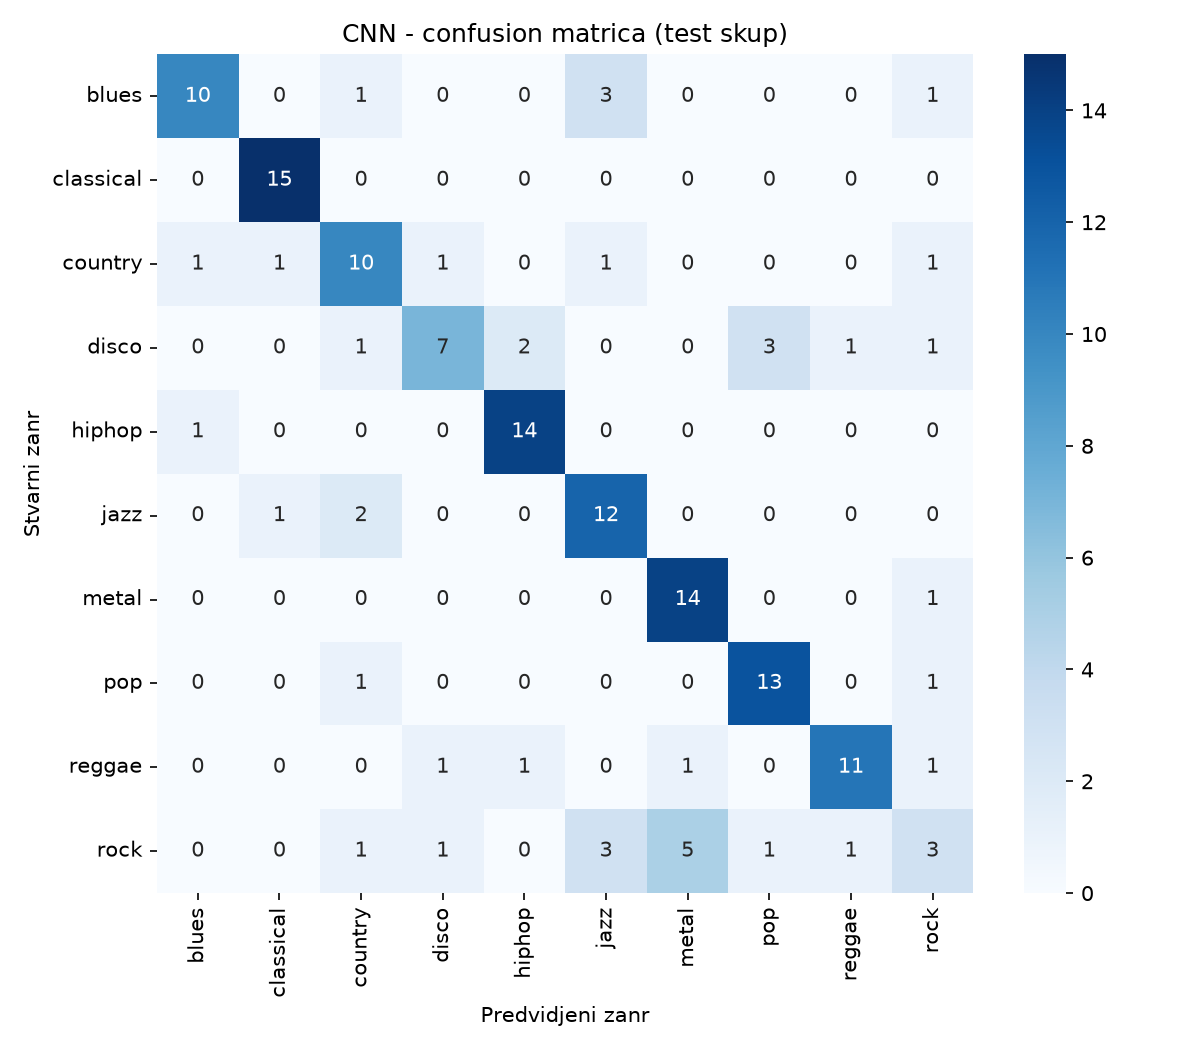
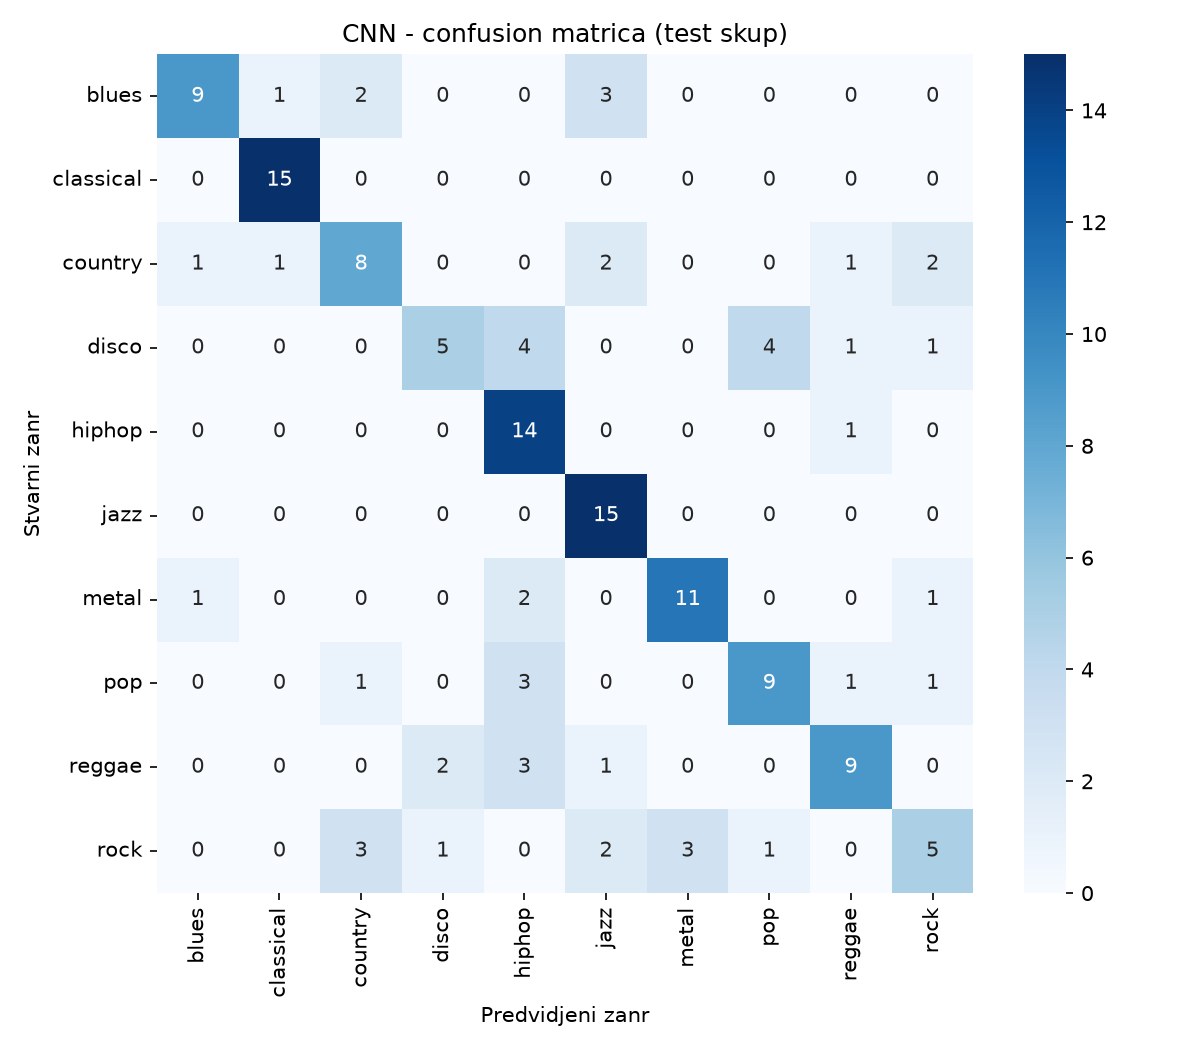
Add spectrogram caching (major speedup) and SpecAugment; diagnose blues-class collapse

diff --git a/src/datasets.py b/src/datasets.py
@@ -1,40 +1,80 @@
 """PyTorch Dataset koji cita manifest CSV, secka svaku pesmu na kratke
-isecke i vraca mel-spektrogram + labelu zanra."""
+isecke i vraca mel-spektrogram + labelu zanra.
+
+Kesiranje: mel-spektrogram CELE pesme se racuna samo jednom po fajlu (prvi put
+kad se zatrazi) i cuva u memoriji (self._spec_cache). Svaki naredni zahtev za
+istu pesmu samo isece nasumican deo iz vec izracunatog spektrograma - bez
+ponovnog citanja audio fajla sa diska i bez ponovnog racunanja FFT-a. Kes
+zivi samo dok skripta radi (nestaje kad se proces zavrsi)."""
 import csv
 import numpy as np
 import torch
 from torch.utils.data import Dataset
 
-from features import load_audio, extract_mel_spectrogram
+from features import (
+    load_audio,
+    extract_mel_spectrogram,
+    spec_augment,
+    DEFAULT_HOP_LENGTH,
+)
 
 
 class GTZANSpectrogramDataset(Dataset):
     def __init__(self, manifest_csv, genres, sample_rate=22050,
-                 segment_duration=3, n_mels=128):
+                 segment_duration=3, n_mels=128, augment=False,
+                 samples_per_track=1):
+        """augment=True: primeni SpecAugment na spektrogram (koristiti SAMO
+        za trening). samples_per_track: koliko nasumicnih isecaka po pesmi
+        po epohi - efektivno mnozi velicinu trening skupa bez novih audio
+        fajlova (koristiti >1 SAMO za trening, val/test ostaju na 1)."""
         self.genres = genres
         self.genre_to_idx = {g: i for i, g in enumerate(genres)}
         self.sample_rate = sample_rate
         self.segment_duration = segment_duration
         self.n_mels = n_mels
+        self.augment = augment
+        self.samples_per_track = samples_per_track
+        self._spec_cache = {}
 
         with open(manifest_csv) as f:
             self.rows = list(csv.DictReader(f))
 
     def __len__(self):
-        return len(self.rows)
+        return len(self.rows) * self.samples_per_track
+
+    def _get_full_spectrogram(self, path):
+        """Vraca mel-spektrogram CELE pesme (128 x ceo broj frejmova),
+        iz kesa ako je vec izracunat, inace ga racuna i kesira."""
+        cached = self._spec_cache.get(path)
+        if cached is not None:
+            return cached
+
+        y, sr = load_audio(path, sample_rate=self.sample_rate)
+        full_log_mel = extract_mel_spectrogram(y, sr, n_mels=self.n_mels)
+        self._spec_cache[path] = full_log_mel
+        return full_log_mel
 
     def __getitem__(self, idx):
-        row = self.rows[idx]
-        y, sr = load_audio(row["path"], sample_rate=self.sample_rate)
+        row = self.rows[idx % len(self.rows)]
+        full_log_mel = self._get_full_spectrogram(row["path"])
 
-        seg_len = self.segment_duration * sr
-        if len(y) > seg_len:
-            start = np.random.randint(0, len(y) - seg_len)
-            y = y[start:start + seg_len]
+        frames_per_seg = int(round(
+            self.segment_duration * self.sample_rate / DEFAULT_HOP_LENGTH
+        ))
+        n_frames_total = full_log_mel.shape[1]
+
+        if n_frames_total > frames_per_seg:
+            f0 = np.random.randint(0, n_frames_total - frames_per_seg)
+            log_mel = full_log_mel[:, f0:f0 + frames_per_seg].copy()
         else:
-            y = np.pad(y, (0, max(0, seg_len - len(y))))
+            pad_width = frames_per_seg - n_frames_total
+            log_mel = np.pad(
+                full_log_mel, ((0, 0), (0, pad_width)),
+                mode="constant", constant_values=full_log_mel.min(),
+            )
 
-        log_mel = extract_mel_spectrogram(y, sr, n_mels=self.n_mels)
+        if self.augment:
+            log_mel = spec_augment(log_mel)
         label = self.genre_to_idx[row["genre"]]
 
         x = torch.tensor(log_mel, dtype=torch.float32).unsqueeze(0)

diff --git a/src/features.py b/src/features.py
@@ -4,18 +4,45 @@ izvuceni feature-i (MFCC/spektralne statistike, za SVM/RandomForest baseline).
 import numpy as np
 import librosa
 
+# Deljena podrazumevana vrednost - koristi je i extract_mel_spectrogram ovde i
+# datasets.py pri secenju keshiranog spektrograma na isecke (moraju se slagati).
+DEFAULT_HOP_LENGTH = 512
+
 
 def load_audio(path, sample_rate=22050, duration=None):
     y, sr = librosa.load(path, sr=sample_rate, duration=duration)
     return y, sr
 
 
-def extract_mel_spectrogram(y, sr, n_mels=128, n_fft=2048, hop_length=512):
+def extract_mel_spectrogram(y, sr, n_mels=128, n_fft=2048, hop_length=DEFAULT_HOP_LENGTH):
     """Vraca log-mel spektrogram (n_mels x vreme), ulaz za CNN."""
     mel = librosa.feature.melspectrogram(
         y=y, sr=sr, n_mels=n_mels, n_fft=n_fft, hop_length=hop_length
     )
     return librosa.power_to_db(mel, ref=np.max)
+
+
+def spec_augment(log_mel, freq_mask_param=15, time_mask_param=20,
+                  num_freq_masks=1, num_time_masks=1):
+    """SpecAugment (Park i dr. 2019) - nasumicno maskiranje traka na
+    mel-spektrogramu, kao blaga augmentacija SAMO za trening (ne za val/test).
+    Maskirane trake se postavljaju na minimalnu vrednost datog spektrograma
+    (u dB skali to odgovara "tisini")."""
+    spec = log_mel.copy()
+    n_mels, n_frames = spec.shape
+    mask_value = spec.min()
+
+    for _ in range(num_freq_masks):
+        f = np.random.randint(0, freq_mask_param + 1)
+        f0 = np.random.randint(0, max(1, n_mels - f))
+        spec[f0:f0 + f, :] = mask_value
+
+    for _ in range(num_time_masks):
+        t = np.random.randint(0, time_mask_param + 1)
+        t0 = np.random.randint(0, max(1, n_frames - t))
+        spec[:, t0:t0 + t] = mask_value
+
+    return spec
 
 """
 Audio se seče na kratke, preklapajuće prozore (dužine n_fft=2048 uzoraka, pomerajući se za hop_length=512 uzoraka svaki put) i 

diff --git a/src/train_cnn.py b/src/train_cnn.py
@@ -1,4 +1,5 @@
 """Trenira CNN na mel-spektrogramima."""
+import time
 import matplotlib
 matplotlib.use("Agg")
 import matplotlib.pyplot as plt
@@ -24,6 +25,10 @@ def run():
         sample_rate=cfg["data"]["sample_rate"],
         segment_duration=cfg["data"]["segment_duration"],
         n_mels=cfg["data"]["n_mels"],
+        # DIJAGNOSTICKI TEST 2/3: SAMO SpecAugment (bez dupliranja isecaka),
+        # da se izoluje da li on izaziva kolaps 'blues' klase.
+        augment=True,
+        samples_per_track=1,
     )
     val_ds = GTZANSpectrogramDataset(
         f"{processed_dir}/val_manifest.csv", genres,
@@ -48,6 +53,7 @@ def run():
     val_accs = []
 
     for epoch in range(cfg["train"]["epochs"]):
+        epoch_start = time.time()
         model.train()
         total_loss = 0
         for x, y in train_loader:
@@ -73,10 +79,12 @@ def run():
         train_losses.append(train_loss)
         val_accs.append(val_acc)
         current_lr = optimizer.param_groups[0]["lr"]
+        epoch_seconds = time.time() - epoch_start
         print(f"epoch {epoch+1}/{cfg['train']['epochs']} "
               f"train_loss={train_loss:.4f} "
               f"val_acc={val_acc:.4f} "
-              f"lr={current_lr:.6f}")
+              f"lr={current_lr:.6f} "
+              f"vreme={epoch_seconds:.1f}s")
 
         if val_acc > best_val_acc:
             best_val_acc = val_acc
